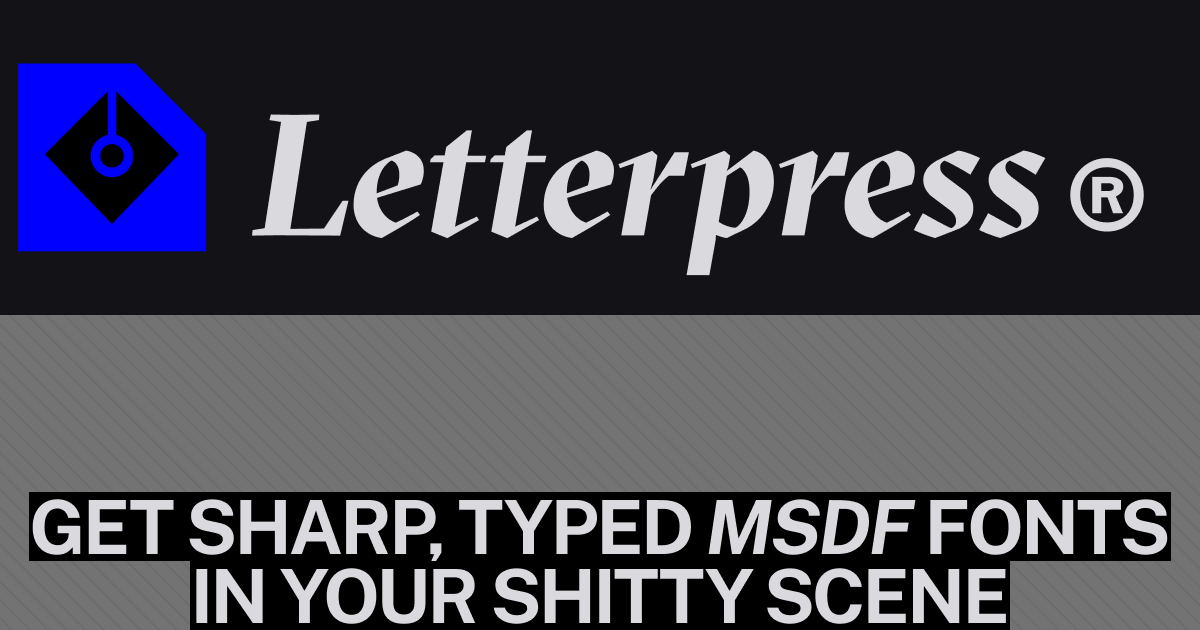
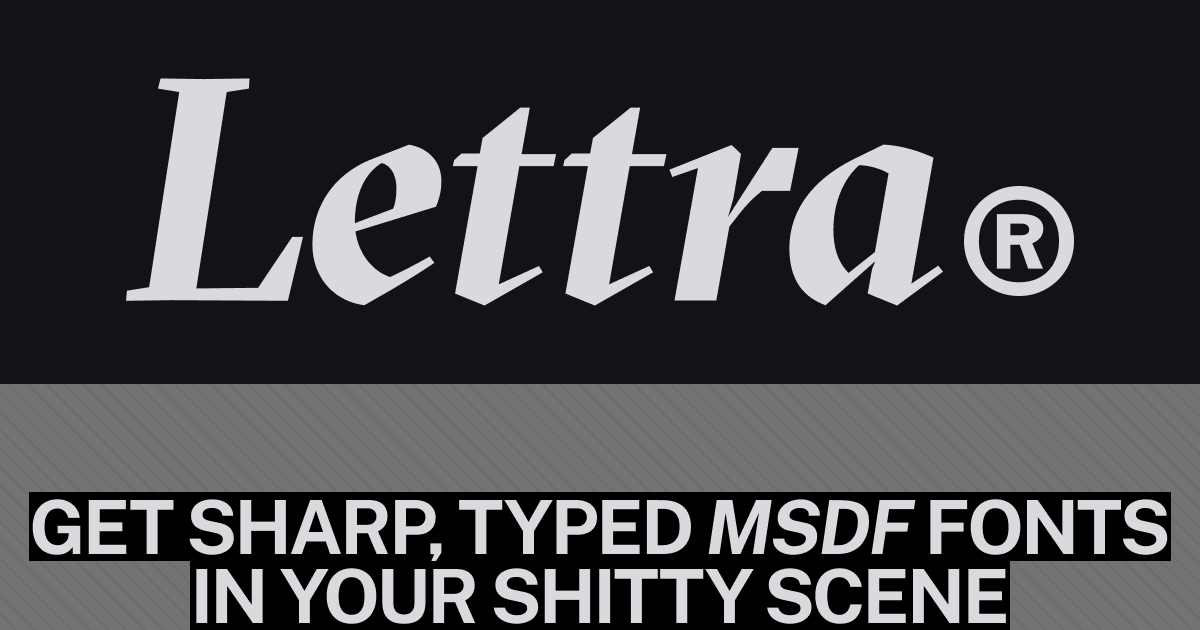
Lettra covers, repo URLs, nib mark becomes a section dinkus
New Lettra OG/Twitter image and GitHub README cover land; repository
URLs move to joyco-studio/lettra ahead of the repo rename. The framed
logo leaves the sidebar (wordmark stands alone) and the bare nib mark
returns as a small centered separator between article sections, with
section top padding rebalanced around it.

Changed region(s): [[0.0, 0.0905, 1.0, 0.6333]]

diff --git a/templates/playground/src/components/playground.tsx b/templates/playground/src/components/playground.tsx
@@ -3,7 +3,17 @@
 import { useEffect, useLayoutEffect, useMemo, useRef, useState } from 'react'
 import { Metri } from '@joycostudio/metri'
 import { MetriProvider } from '@joycostudio/metri/react'
-import { Caption, CodePanel, CommandLine, CopyAction, MonoButton, Prose, Row, SnippetPanel } from '@/components/layout'
+import {
+  Caption,
+  CodePanel,
+  CommandLine,
+  CopyAction,
+  MonoButton,
+  Prose,
+  Row,
+  SectionBreak,
+  SnippetPanel,
+} from '@/components/layout'
 import { Toc } from '@/components/toc'
 import { JoycoLogo } from '@/components/joyco-logo'
 import type { TocSection } from '@/components/toc'
@@ -42,7 +52,7 @@ npx -y -p msdf-bmfont-xml msdf-bmfont -f json -i charset.txt -s 64 -r 8 -p 2 -t 
 - instance variable fonts to a static weight first (python3 -m fontTools.varLib.instancer font.ttf wght=400 -o static.ttf) or GPOS kerning bakes to 0 pairs
 - keep distance range 8 (erosion wipes need the SDF headroom), single atlas page, no rotated packing
 
-Full API (layout engine, effects, composing TSL nodes, lifecycle contract): https://github.com/joyco-studio/letterpress#readme`
+Full API (layout engine, effects, composing TSL nodes, lifecycle contract): https://github.com/joyco-studio/lettra#readme`
 
 function GettingStarted() {
   return (
@@ -137,13 +147,8 @@ export default function Playground({
           <div className="sticky top-0 hidden h-screen w-[280px] shrink-0 self-start pt-14 pb-10 xl:block">
             {/* block hugs the body column; content inside stays left-aligned */}
             <div className="ml-auto flex h-full w-full max-w-[280px] flex-col">
-              <div className="flex items-center gap-2 pb-10">
-                <img src="/brand/logo-framed.svg" alt="Lettra logo" className="h-10 w-10" />
-                <img
-                  src="/brand/wordmark.svg"
-                  alt="Lettra®"
-                  className="h-[27px] w-auto [filter:brightness(0.32)]"
-                />
+              <div className="flex items-center pb-10">
+                <img src="/brand/wordmark.svg" alt="Lettra®" className="h-[26px] w-auto [filter:brightness(0.32)]" />
               </div>
               <Toc sections={SECTIONS} />
               <a
@@ -183,10 +188,11 @@ export default function Playground({
             {/* fig. 01 — specimen */}
             <SpecimenExample stage={stage} />
 
+            <SectionBreak />
             {/* 02 — pipeline */}
             <Row
               id="pipeline"
-              className="pt-20"
+              className="pt-10"
               asideClassName="lg:pt-20"
               aside={
                 <SnippetPanel
@@ -230,12 +236,16 @@ export default function Playground({
             </Row>
 
             {/* fig. 02 — wipe, fig. 03 — scramble, fig. 04 — water trail */}
+            <SectionBreak />
             <WipeExample stage={stage} html={highlighted.wipe} />
+            <SectionBreak />
             <ScrambleExample stage={stage} html={highlighted.scramble} />
+            <SectionBreak />
             <LiquidExample stage={stage} html={highlighted.liquid} />
 
+            <SectionBreak />
             {/* 06 — implementation */}
-            <Row id="implementation" className="pt-20">
+            <Row id="implementation" className="pt-10">
               <div className="flex items-start gap-1">
                 <h2 className="font-serif text-[21px] leading-[1.15] font-bold tracking-[-0.02em] text-ink">
                   One canvas, tracked
@@ -305,8 +315,9 @@ export default function Playground({
               </details>
             </Row>
 
+            <SectionBreak />
             {/* 07 — colophon */}
-            <Row id="colophon" className="pt-24">
+            <Row id="colophon" className="pt-10">
               <div className="pb-10">
                 <MetaTable />
               </div>

diff --git a/templates/playground/src/components/examples.tsx b/templates/playground/src/components/examples.tsx
@@ -205,7 +205,7 @@ export function WipeExample({ stage, html }: { stage: Stage | null; html: string
   return (
     <Row
       id="wipe"
-      className="pt-20"
+      className="pt-10"
       asideClassName="lg:pt-20"
       aside={
         <SnippetPanel
@@ -254,7 +254,7 @@ export function ScrambleExample({ stage, html }: { stage: Stage | null; html: st
   return (
     <Row
       id="scramble"
-      className="pt-20"
+      className="pt-10"
       asideClassName="lg:pt-20"
       aside={
         <SnippetPanel
@@ -314,7 +314,7 @@ export function LiquidExample({ stage, html }: { stage: Stage | null; html: stri
   return (
     <Row
       id="liquid"
-      className="pt-20"
+      className="pt-10"
       asideClassName="lg:pt-20"
       aside={
         <SnippetPanel

diff --git a/templates/playground/src/components/layout.tsx b/templates/playground/src/components/layout.tsx
@@ -212,6 +212,16 @@ export function Prose({ className, children }: { className?: string; children: R
   return <p className={cn('font-serif text-[16px] leading-[1.3] tracking-[0.01em] text-ink', className)}>{children}</p>
 }
 
+/** Editorial section separator: the nib mark as a small centered dinkus
+ * in the prose column. */
+export function SectionBreak() {
+  return (
+    <div className="flex justify-center pt-20 lg:col-start-1" aria-hidden>
+      <img src="/brand/logo-mark.svg" alt="" className="h-4 w-4 opacity-30" />
+    </div>
+  )
+}
+
 /** One page row: the section content in the prose column and an optional
  * aside in the right rail. On large screens both land in the same grid row
  * (explicit column + auto row placement); below `lg` the aside flows inline
